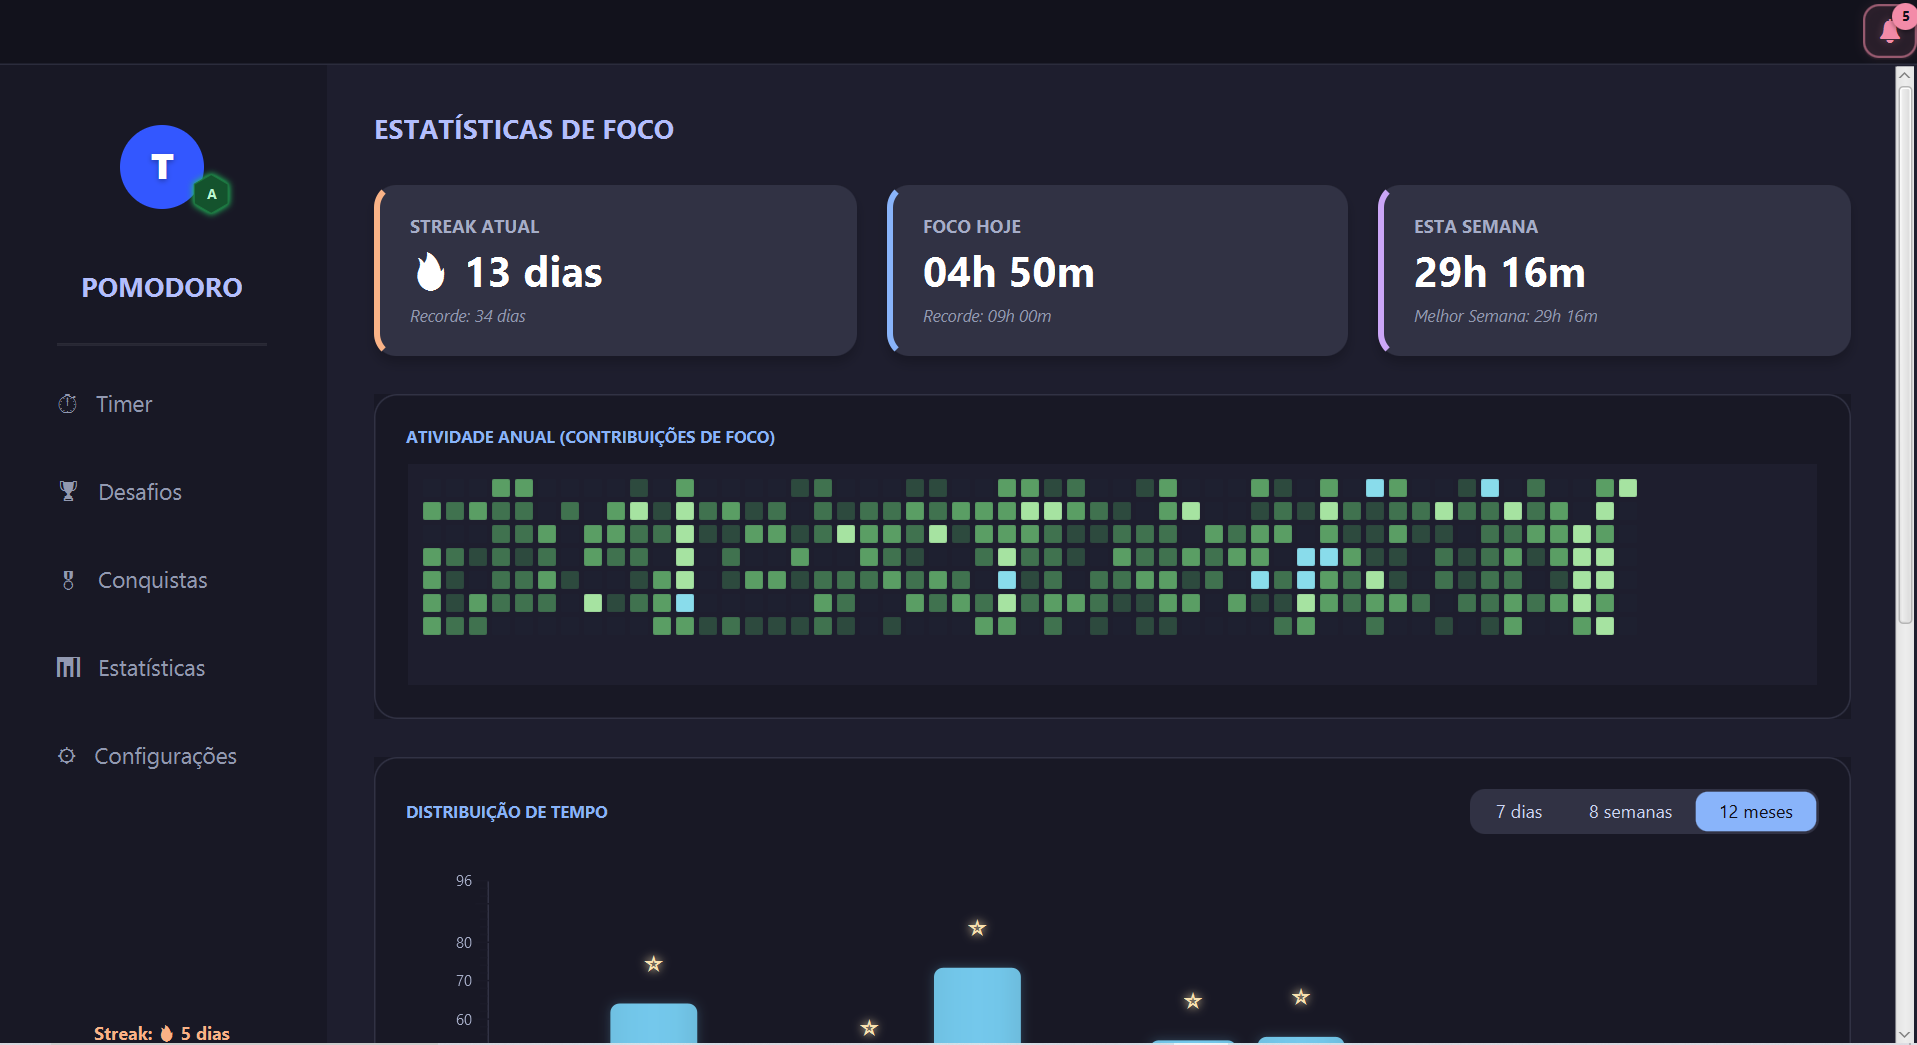
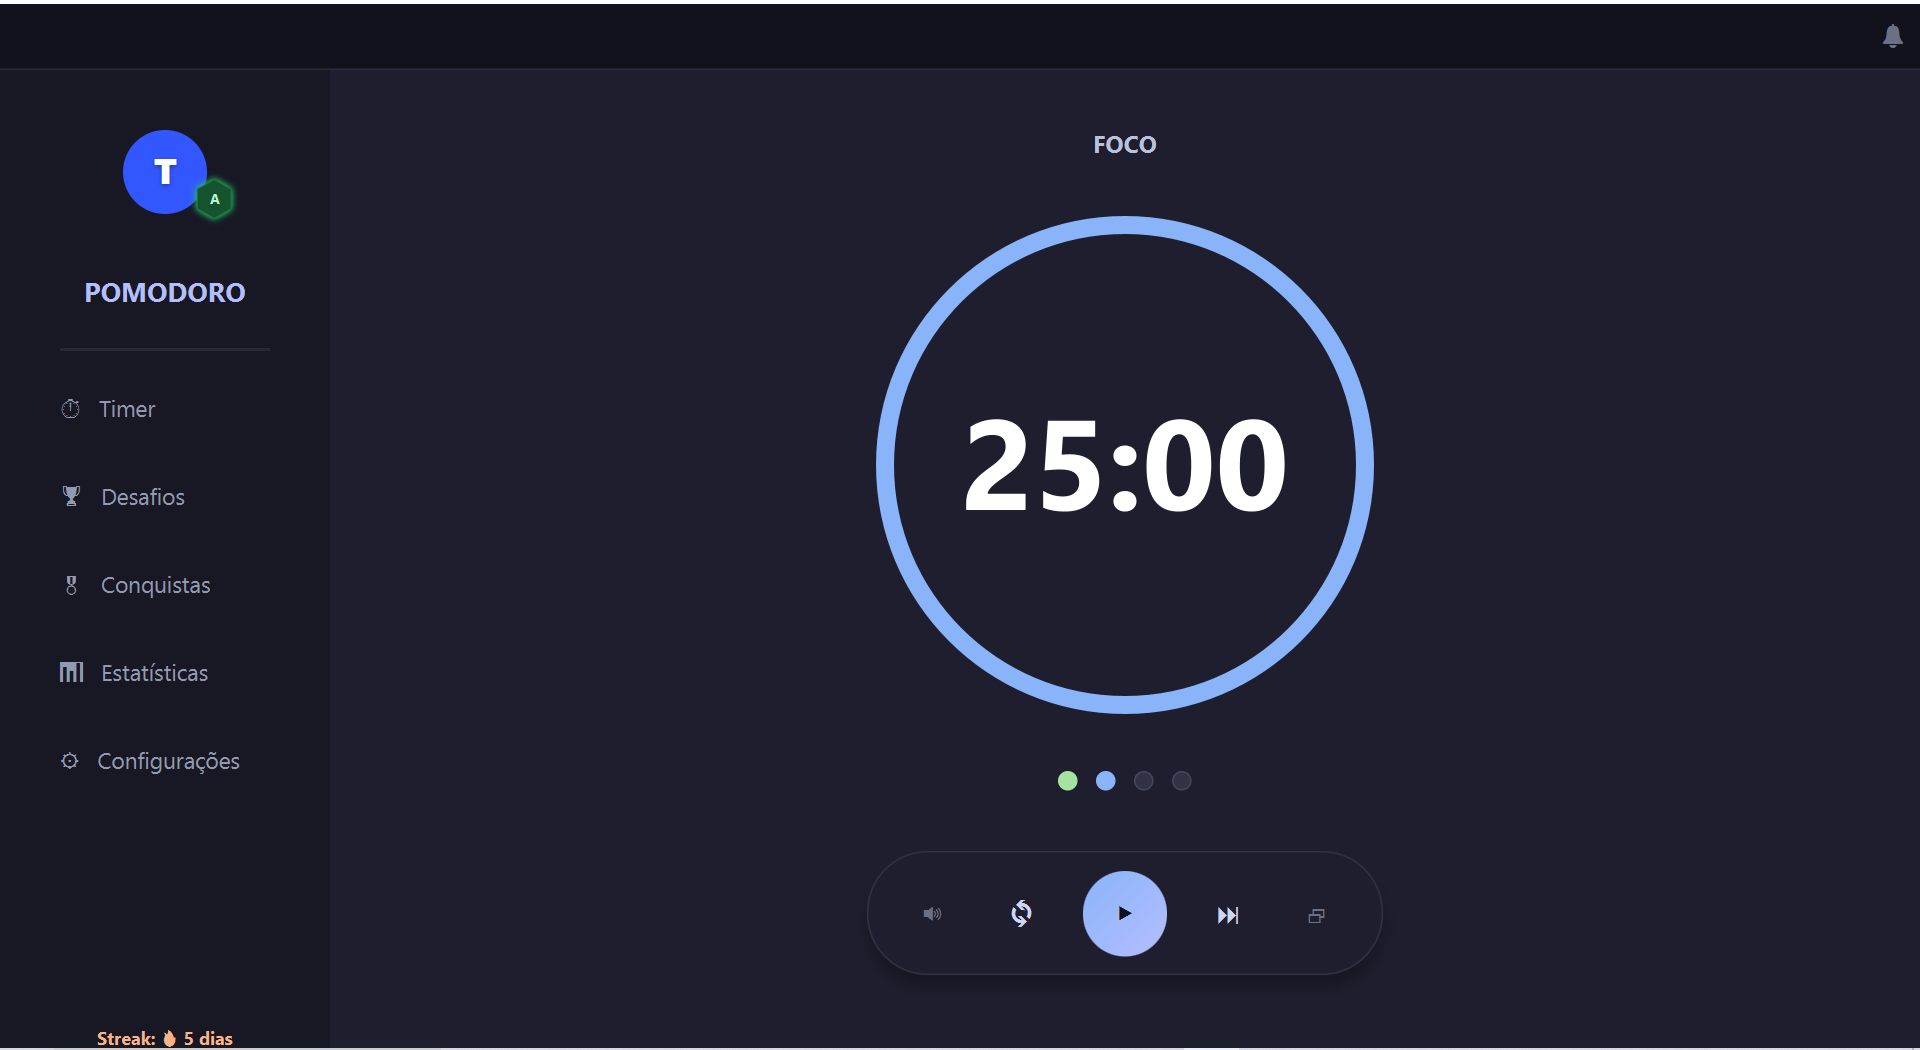
readme update

diff --git a/readme.md b/readme.md
@@ -8,7 +8,7 @@
 
 <br/>
 
-<img src="./assets/prints/Main.png" alt="Tela Principal do Pomodoro Focus" width="85%" />
+<img src="./assets/prints/main.png" alt="Tela Principal do Pomodoro Focus" width="85%" />
 
 </div>
 
